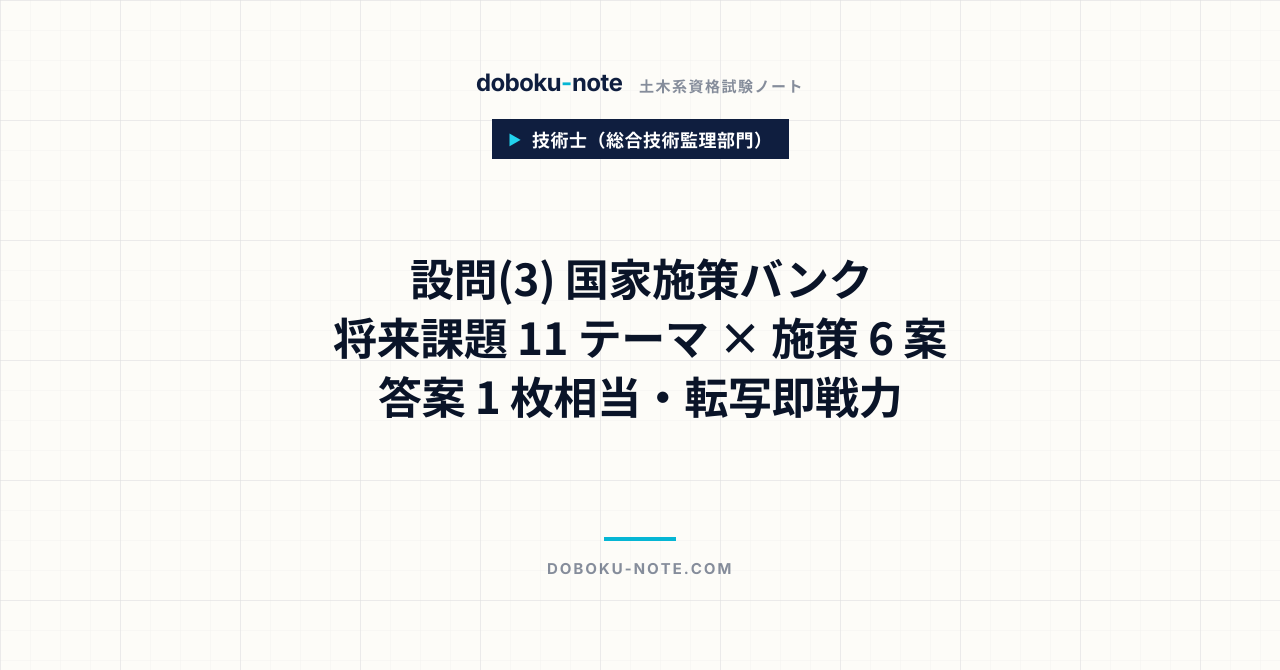
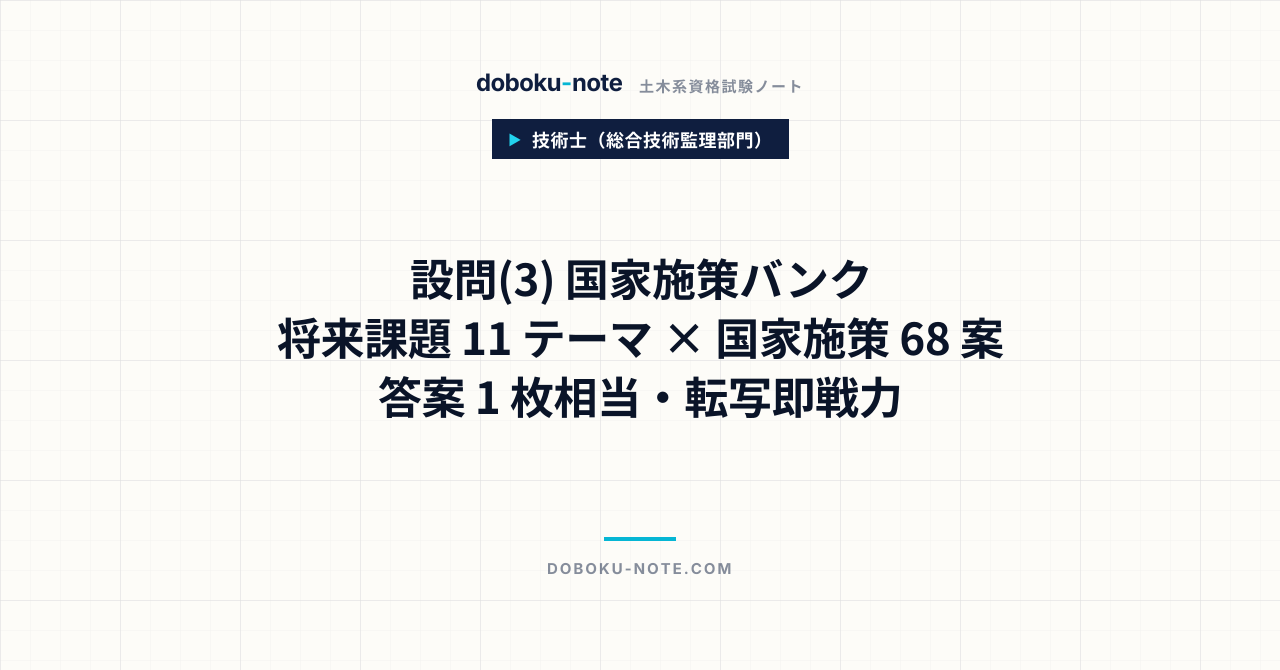
docs(note): 設問3バンク サイトカバーを68案へ更新+note貼付用説明文を追加
サイト用マガジンカバー lines「施策6案」→「国家施策68案」に修正し再生成。
note マガジン説明欄 貼付用 magazine-description.md（短文版/キャッチ/対象読者）を新規作成。

Changed region(s): [[0.2188, 0.4776, 0.7812, 0.5373]]

diff --git a/docs/note/技術士総監/magazines/総監記述式-設問3国家施策バンク/magazine-description.md b/docs/note/技術士総監/magazines/総監記述式-設問3国家施策バンク/magazine-description.md
@@ -1,0 +1,30 @@
+# note マガジン説明文（貼付用）
+
+> note のマガジン作成時、「マガジンの説明」欄に貼り付ける紹介文。価格 ¥2,480・有料マガジン。
+> カバー画像: `public/images/magazines/magazine-setsumon3-policy-bank-cover.png`
+
+---
+
+## 短文版（マガジン説明欄・推奨）
+
+技術士総合技術監理部門 記述式の「設問(3)」専用。事業や組織の枠を超え、我が国が解決すべき将来課題に、国家スケールの施策で答えるための「施策の引き出し集」です。
+
+2050年前後に日本が直面する将来課題を11テーマに整理し、各テーマで設問(3)に使える国家政策レバーを5〜8案（計68案）収録。各施策は①課題と施策／②有効性と実現性／③重大な障害と克服策（5管理のトレードオフを明示）を、答案用紙1枚＝約600字でそのまま転写できる完成度で記述しています。
+
+最新の政府白書（令和6〜8年度版）に基づき、数値は原典を確認。完成模範論文ではなく、どのテーマが出題されても2案を選んで組み立てられる「弾薬庫」として設計しています。
+
+【収録11テーマ】人口減少・少子高齢化／地方創生・東京一極集中／担い手不足・労働供給制約／カーボンニュートラル・GX／気候変動適応・国土強靱化／循環経済・資源安全保障／インフラ老朽化・維持管理／Society 5.0・AIガバナンス／食料安全保障／経済安全保障・サプライチェーン強靱化／物流危機（2024年問題）
+
+---
+
+## 一行キャッチ（タイトル横・SNS用）
+
+将来課題11テーマ × 国家施策68案。設問(3)で「どのテーマが出ても2案を引き出せる」答案転写即戦力の施策バンク。
+
+---
+
+## こんな人に（箇条書き・任意で説明欄末尾に追加）
+
+- 設問(3)で毎回「国レベルの施策が思いつかない／業界内に閉じてしまう」人
+- 出題テーマが読めず、何を準備すればいいか絞れない人
+- 模範論文は読んだが、自分の答案に転写できる施策のストックが足りない人
